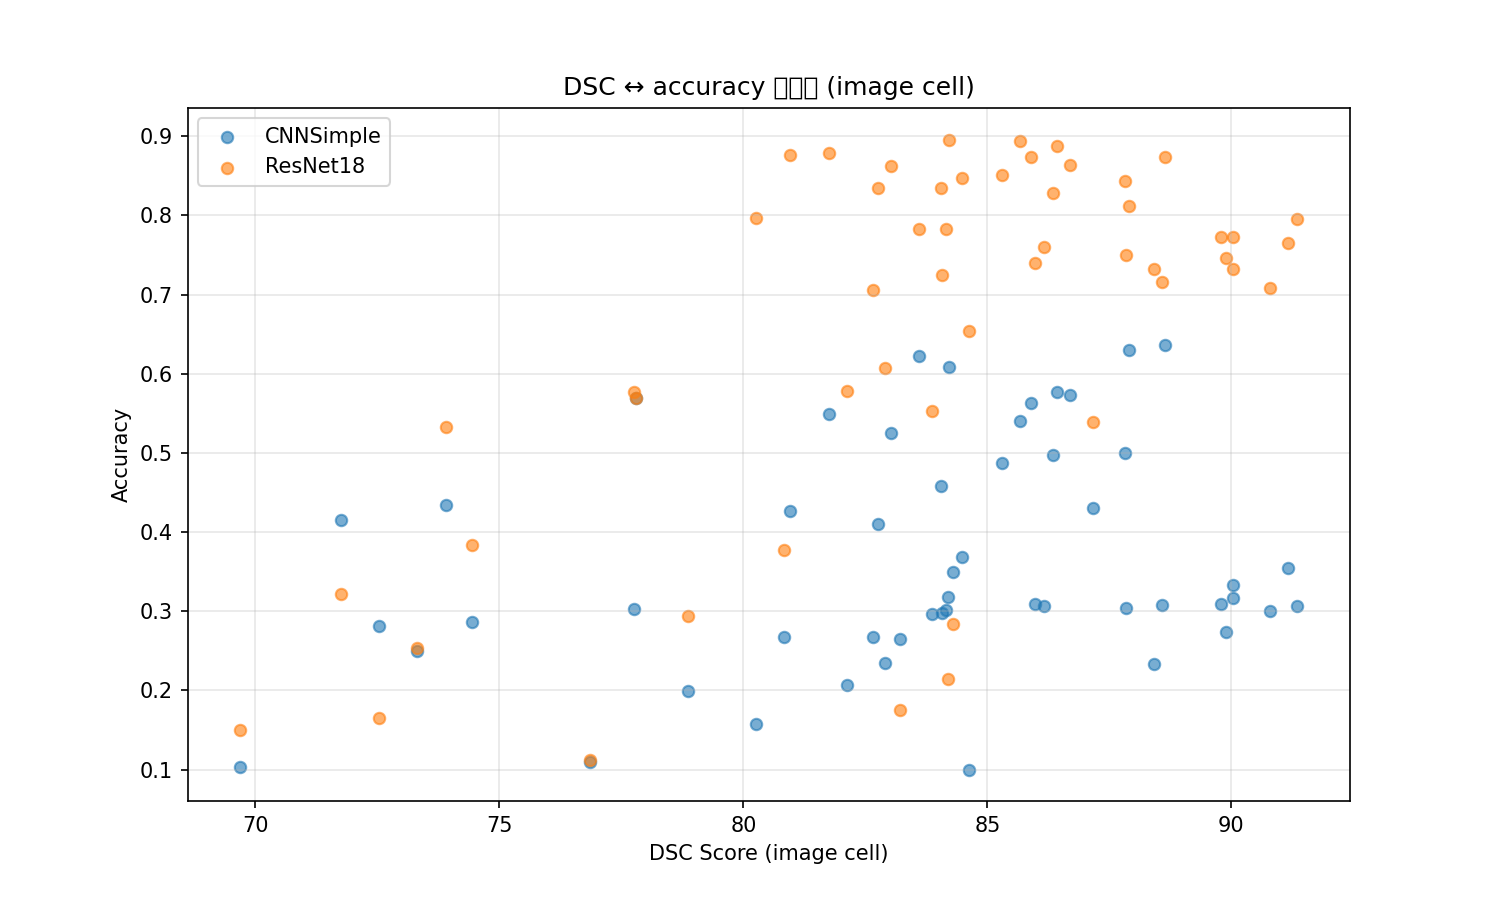
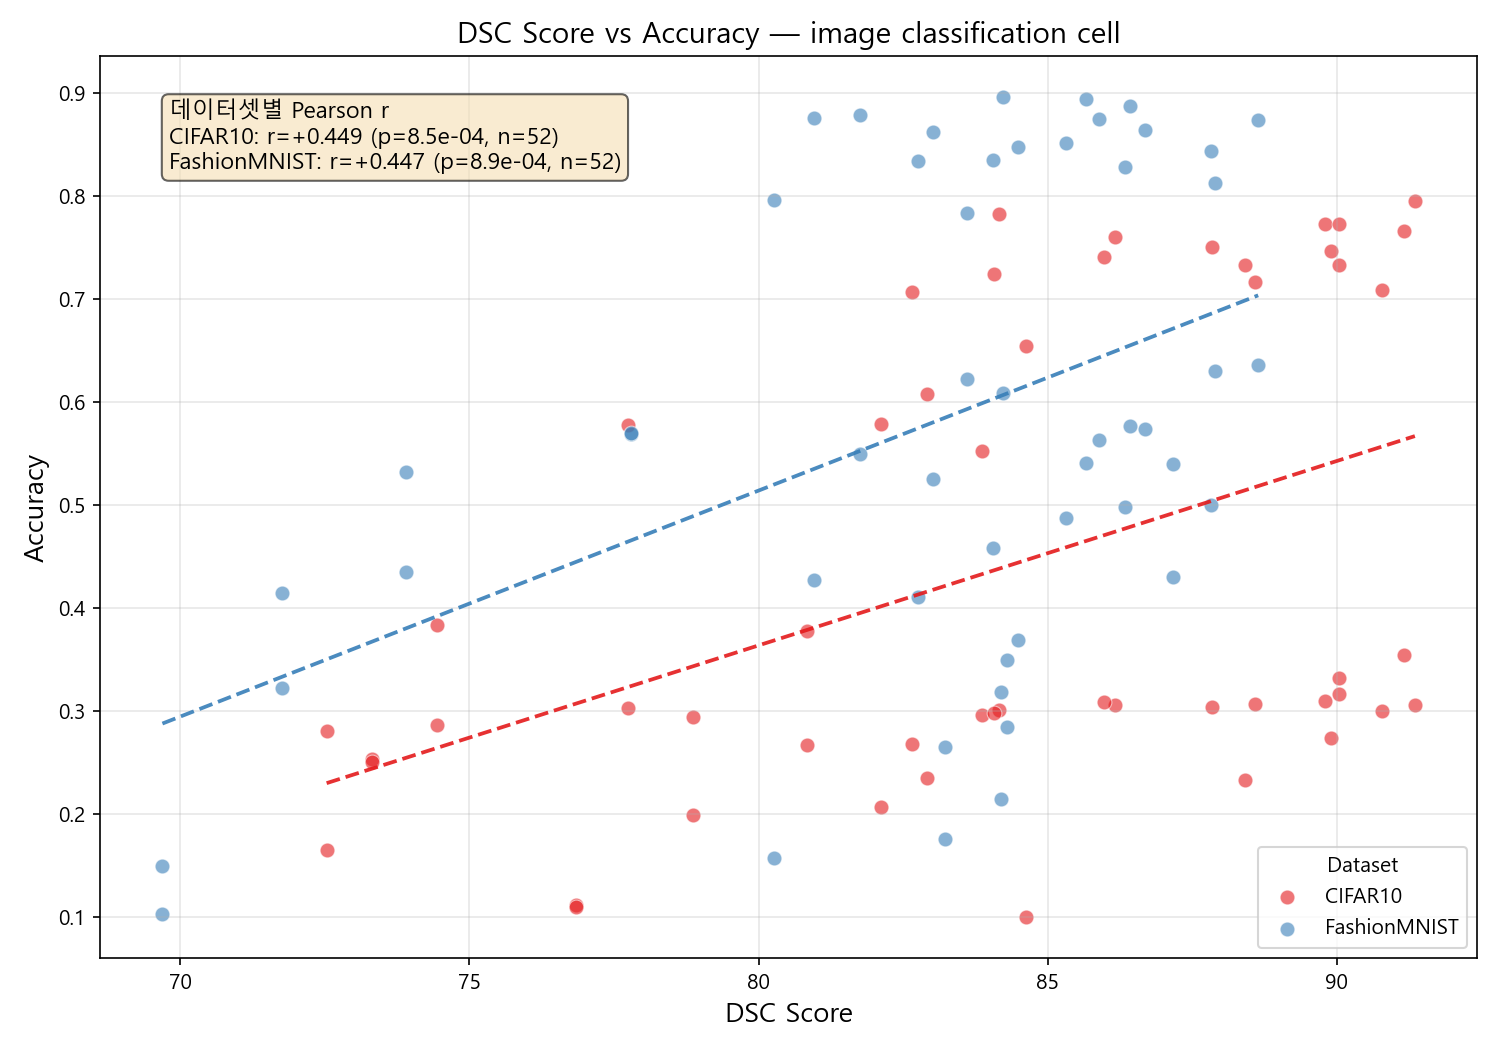
docs(발표): 차트 자산 재생성·정리 (셀별 scatter + 보조차트 etc/ 분리)
- 텍스트 분류/회귀 scatter를 probe full sweep 실측 데이터로 생성 (데이터셋별 r·회귀선)
- 정형회귀 차트 자산 추가, 정형분류·이미지 차트 갱신, 보조차트는 etc/로 정리
- 차트 생성 스크립트(_dev) + results/charts* 동기화

diff --git a/notebooks/_dev/make_text_dev_charts.py b/notebooks/_dev/make_text_dev_charts.py
@@ -1,0 +1,88 @@
+# -*- coding: utf-8 -*-
+"""텍스트 셀 DEV 임시 차트 생성 (정식 full sweep 아님 — dev 사이즈).
+입력: results/text_dsc_sweep.csv + results/text_train_metrics_dev.csv
+출력: results/charts_text_dev/{분류,회귀}_*.png
+"""
+import pandas as pd
+import numpy as np
+import matplotlib
+matplotlib.use("Agg")
+import matplotlib.pyplot as plt
+from pathlib import Path
+from scipy.stats import pearsonr
+
+plt.rcParams["font.family"] = "Malgun Gothic"
+plt.rcParams["axes.unicode_minus"] = False
+
+BASE = Path(__file__).resolve().parents[2]
+OUT = BASE / "results" / "charts_text_dev"
+OUT.mkdir(parents=True, exist_ok=True)
+
+dsc = pd.read_csv(BASE / "results" / "text_dsc_sweep.csv")
+met = pd.read_csv(BASE / "results" / "text_train_metrics_dev.csv")
+
+keys = ["dataset", "task", "polluter", "level", "seed"]
+df = met.merge(dsc[keys + ["dsc_score"]], on=keys, how="inner")
+df = df.dropna(subset=["dsc_score", "metric"])
+# 회귀 R²는 음수 가능 → 0 클립(차트 가독성), 분류 F1은 그대로
+df["perf"] = df["metric"].clip(lower=0)
+
+TAG = "DEV — 임시(정식 full sweep 아님)"
+
+
+def scatter(sub, perf_label, title, fname):
+    fig, ax = plt.subplots(figsize=(6.4, 4.8))
+    for model, g in sub.groupby("model"):
+        ax.scatter(g["dsc_score"], g["perf"], s=70, alpha=0.8, label=model, edgecolor="k", linewidth=0.4)
+    if len(sub) >= 3:
+        r, p = pearsonr(sub["dsc_score"], sub["perf"])
+        z = np.polyfit(sub["dsc_score"], sub["perf"], 1)
+        xs = np.linspace(sub["dsc_score"].min(), sub["dsc_score"].max(), 50)
+        ax.plot(xs, np.polyval(z, xs), "r--", lw=1.3)
+        ax.text(0.04, 0.94, f"Pearson r = {r:.3f} (p={p:.3g}, n={len(sub)})",
+                transform=ax.transAxes, va="top", fontsize=10,
+                bbox=dict(boxstyle="round", fc="#fff7d6", ec="#caa"))
+    ax.set_xlabel("DSC Score")
+    ax.set_ylabel(perf_label)
+    ax.set_title(f"{title}\n[{TAG}]", fontsize=11)
+    ax.legend(fontsize=8, framealpha=0.9)
+    ax.grid(alpha=0.3)
+    fig.tight_layout()
+    fig.savefig(OUT / fname, dpi=130)
+    plt.close(fig)
+    print("saved", fname, "rows", len(sub))
+
+
+def level_trend(sub, perf_label, title, fname):
+    fig, ax1 = plt.subplots(figsize=(6.4, 4.8))
+    # 평균 DSC·성능을 level별로
+    agg = sub.groupby("level").agg(dsc=("dsc_score", "mean"), perf=("perf", "mean")).reset_index()
+    ax1.plot(agg["level"], agg["dsc"], "o-", color="#2c7fb8", label="DSC Score")
+    ax1.set_xlabel("오염 강도 (level)")
+    ax1.set_ylabel("DSC Score", color="#2c7fb8")
+    ax1.tick_params(axis="y", labelcolor="#2c7fb8")
+    ax2 = ax1.twinx()
+    ax2.plot(agg["level"], agg["perf"], "s--", color="#d95f0e", label=perf_label)
+    ax2.set_ylabel(perf_label, color="#d95f0e")
+    ax2.tick_params(axis="y", labelcolor="#d95f0e")
+    ax1.set_title(f"{title}\n[{TAG}]", fontsize=11)
+    ax1.grid(alpha=0.3)
+    fig.tight_layout()
+    fig.savefig(OUT / fname, dpi=130)
+    plt.close(fig)
+    print("saved", fname, "rows", len(sub))
+
+
+clf = df[df["task"] == "classification"]
+reg = df[df["task"] == "regression"]
+
+scatter(clf, "F1 (macro)", "텍스트 분류: DSC vs F1 (ag_news)", "분류_01_scatter.png")
+level_trend(clf, "F1 (macro)", "텍스트 분류: 오염강도별 DSC·F1", "분류_02_level_trend.png")
+scatter(reg, "R² (0 클립)", "텍스트 회귀: DSC vs R² (sst5)", "회귀_01_scatter.png")
+level_trend(reg, "R² (0 클립)", "텍스트 회귀: 오염강도별 DSC·R²", "회귀_02_level_trend.png")
+
+print("\n=== 요약 ===")
+for name, sub in [("분류", clf), ("회귀", reg)]:
+    if len(sub) >= 3:
+        r, p = pearsonr(sub["dsc_score"], sub["perf"])
+        print(f"{name}: n={len(sub)}, r={r:.3f}, p={p:.3g}, datasets={list(sub.dataset.unique())}, models={list(sub.model.unique())}")

diff --git a/notebooks/_dev/add_trendline_image_scatter.py b/notebooks/_dev/add_trendline_image_scatter.py
@@ -1,0 +1,76 @@
+# -*- coding: utf-8 -*-
+"""이미지 분류·회귀 산점도에 '데이터셋별' 회귀선 + Pearson r 추가.
+이미지 셀은 합격 판정이 dataset 단위(배치효과로 pooled 선은 결과 왜곡) → 데이터셋별 선.
+각 셀의 공식 집계 미러: 분류=전체 모델 원시점 / 회귀=probe_mean(config별 4모델 평균).
+덮어쓰기: results/charts_image/01_scatter.png, results/charts_image_regression/01_scatter.png
+"""
+import pandas as pd
+import numpy as np
+import matplotlib
+matplotlib.use("Agg")
+import matplotlib.pyplot as plt
+import seaborn as sns
+from scipy.stats import pearsonr
+from pathlib import Path
+
+plt.rcParams["font.family"] = "Malgun Gothic"
+plt.rcParams["axes.unicode_minus"] = False
+BASE = Path(__file__).resolve().parents[2]
+R = BASE / "results"
+
+
+def scatter_by_dataset(m, xcol, ycol, ylabel, title, out, clip0=False):
+    m = m.copy()
+    if clip0:
+        m[ycol] = m[ycol].clip(lower=0)
+    fig, ax = plt.subplots(figsize=(10, 7))
+    dsets = sorted(m["dataset"].unique())
+    colors = sns.color_palette("Set1", len(dsets))
+    lines = []
+    for ds, color in zip(dsets, colors):
+        sub = m[m["dataset"] == ds]
+        x = sub[xcol].values.astype(float)
+        y = sub[ycol].values.astype(float)
+        mask = ~(np.isnan(x) | np.isnan(y))
+        x, y = x[mask], y[mask]
+        ax.scatter(x, y, label=ds, color=color, alpha=0.6, s=50,
+                   edgecolors="white", linewidth=0.5)
+        if len(x) >= 3 and x.std() > 1e-9:
+            z = np.polyfit(x, y, 1)
+            xl = np.linspace(x.min(), x.max(), 100)
+            ax.plot(xl, np.poly1d(z)(xl), "--", color=color, alpha=0.9, linewidth=1.8)
+            r, p = pearsonr(x, y)
+            lines.append(f"{ds}: r={r:+.3f} (p={p:.1e}, n={len(x)})")
+    ax.text(0.05, 0.95, "데이터셋별 Pearson r\n" + "\n".join(lines),
+            transform=ax.transAxes, fontsize=11, verticalalignment="top",
+            bbox=dict(boxstyle="round", facecolor="wheat", alpha=0.6))
+    ax.set_xlabel("DSC Score", fontsize=13)
+    ax.set_ylabel(ylabel, fontsize=13)
+    ax.set_title(title, fontsize=14)
+    ax.legend(title="Dataset", loc="lower right")
+    ax.grid(True, alpha=0.3)
+    fig.tight_layout()
+    fig.savefig(out, dpi=150)
+    plt.close(fig)
+    print(f"saved {out.parent.name}/{out.name}  " + " | ".join(lines))
+
+
+# 이미지 분류 — 전체 모델 원시점, accuracy
+dsc_c = pd.read_csv(R / "dsc_scores_image.csv")
+perf_c = pd.read_csv(R / "model_performance_image.csv")
+mc = perf_c.merge(dsc_c[["dataset", "polluter", "level", "score", "grade"]],
+                  on=["dataset", "polluter", "level"], how="inner")
+scatter_by_dataset(mc, "score", "accuracy", "Accuracy",
+                   "DSC Score vs Accuracy — image classification cell",
+                   R / "charts_image" / "01_scatter.png")
+
+# 이미지 회귀 — probe_mean(config별 4모델 평균 R²)
+dsc_r = pd.read_csv(R / "dsc_scores_image_regression.csv")
+perf_r = pd.read_csv(R / "model_performance_image_regression.csv")
+probe = perf_r[perf_r["method"] == "probe"]
+pm = probe.groupby(["dataset", "polluter", "level"])["score"].mean().reset_index(name="probe_R2")
+mr = pm.merge(dsc_r[["dataset", "polluter", "level", "score", "grade"]],
+              on=["dataset", "polluter", "level"], how="inner").rename(columns={"score": "dsc_score"})
+scatter_by_dataset(mr, "dsc_score", "probe_R2", "probe 평균 R² (0 클립)",
+                   "DSC Score vs R² — image regression cell",
+                   R / "charts_image_regression" / "01_scatter.png", clip0=True)

diff --git a/notebooks/_dev/add_bydataset_scatter_tabular.py b/notebooks/_dev/add_bydataset_scatter_tabular.py
@@ -1,0 +1,69 @@
+# -*- coding: utf-8 -*-
+"""정형 분류·회귀 산점도의 '데이터셋별 회귀선' 버전 신규 생성 (기존 pooled 파일은 유지).
+새 파일: *_bydataset.png. 점은 데이터셋별 색, 선도 데이터셋별, 박스에 per-dataset r + pooled r.
+"""
+import pandas as pd
+import numpy as np
+import matplotlib
+matplotlib.use("Agg")
+import matplotlib.pyplot as plt
+import seaborn as sns
+from scipy.stats import pearsonr
+from pathlib import Path
+
+plt.rcParams["font.family"] = "Malgun Gothic"
+plt.rcParams["axes.unicode_minus"] = False
+BASE = Path(__file__).resolve().parents[2]
+R = BASE / "results"
+
+
+def by_dataset(m, xcol, ycol, ylabel, title, out):
+    fig, ax = plt.subplots(figsize=(10, 7))
+    dsets = sorted(m["dataset"].unique())
+    colors = sns.color_palette("Set1", len(dsets))
+    lines = []
+    for ds, color in zip(dsets, colors):
+        sub = m[m["dataset"] == ds]
+        x = sub[xcol].values.astype(float)
+        y = sub[ycol].values.astype(float)
+        msk = ~(np.isnan(x) | np.isnan(y))
+        x, y = x[msk], y[msk]
+        ax.scatter(x, y, label=ds, color=color, alpha=0.55, s=40,
+                   edgecolors="white", linewidth=0.5)
+        if len(x) >= 3 and x.std() > 1e-9:
+            z = np.polyfit(x, y, 1)
+            xl = np.linspace(x.min(), x.max(), 100)
+            ax.plot(xl, np.poly1d(z)(xl), "--", color=color, alpha=0.95, linewidth=2.0)
+            r, p = pearsonr(x, y)
+            lines.append(f"{ds}: r={r:+.3f} (n={len(x)})")
+    xp = m[xcol].values.astype(float); yp = m[ycol].values.astype(float)
+    mk = ~(np.isnan(xp) | np.isnan(yp))
+    rp, _ = pearsonr(xp[mk], yp[mk])
+    txt = "데이터셋별 Pearson r\n" + "\n".join(lines) + f"\n──────\nPOOLED: r={rp:+.3f} (n={mk.sum()})"
+    ax.text(0.05, 0.95, txt, transform=ax.transAxes, fontsize=11, va="top",
+            bbox=dict(boxstyle="round", facecolor="wheat", alpha=0.65))
+    ax.set_xlabel("DSC Score", fontsize=13)
+    ax.set_ylabel(ylabel, fontsize=13)
+    ax.set_title(title, fontsize=14)
+    ax.legend(title="Dataset", loc="lower right")
+    ax.grid(True, alpha=0.3)
+    fig.tight_layout()
+    fig.savefig(out, dpi=150)
+    plt.close(fig)
+    print(f"saved {out.parent.name}/{out.name}  " + " | ".join(lines))
+
+
+# 정형 분류
+mc = pd.read_csv(R / "merged_results.csv")
+by_dataset(mc, "score", "f1_macro", "F1-score (macro)",
+           "DSC Score vs F1 — 정형 분류 cell (데이터셋별 회귀선)",
+           R / "charts" / "chart1_scatter_dsc_vs_f1_bydataset.png")
+
+# 정형 회귀
+perf = pd.read_csv(R / "model_performance_regression.csv")
+dsc = pd.read_csv(R / "dsc_scores_regression.csv")
+mr = perf.merge(dsc[["dataset", "polluter", "level", "score"]],
+                on=["dataset", "polluter", "level"]).rename(columns={"score": "dsc_score"})
+by_dataset(mr, "dsc_score", "r2_clipped", "R² (clipped)",
+           "DSC Score vs R² — 정형 회귀 cell (데이터셋별 회귀선)",
+           R / "charts_regression" / "01_dsc_vs_r2_scatter_bydataset.png")
